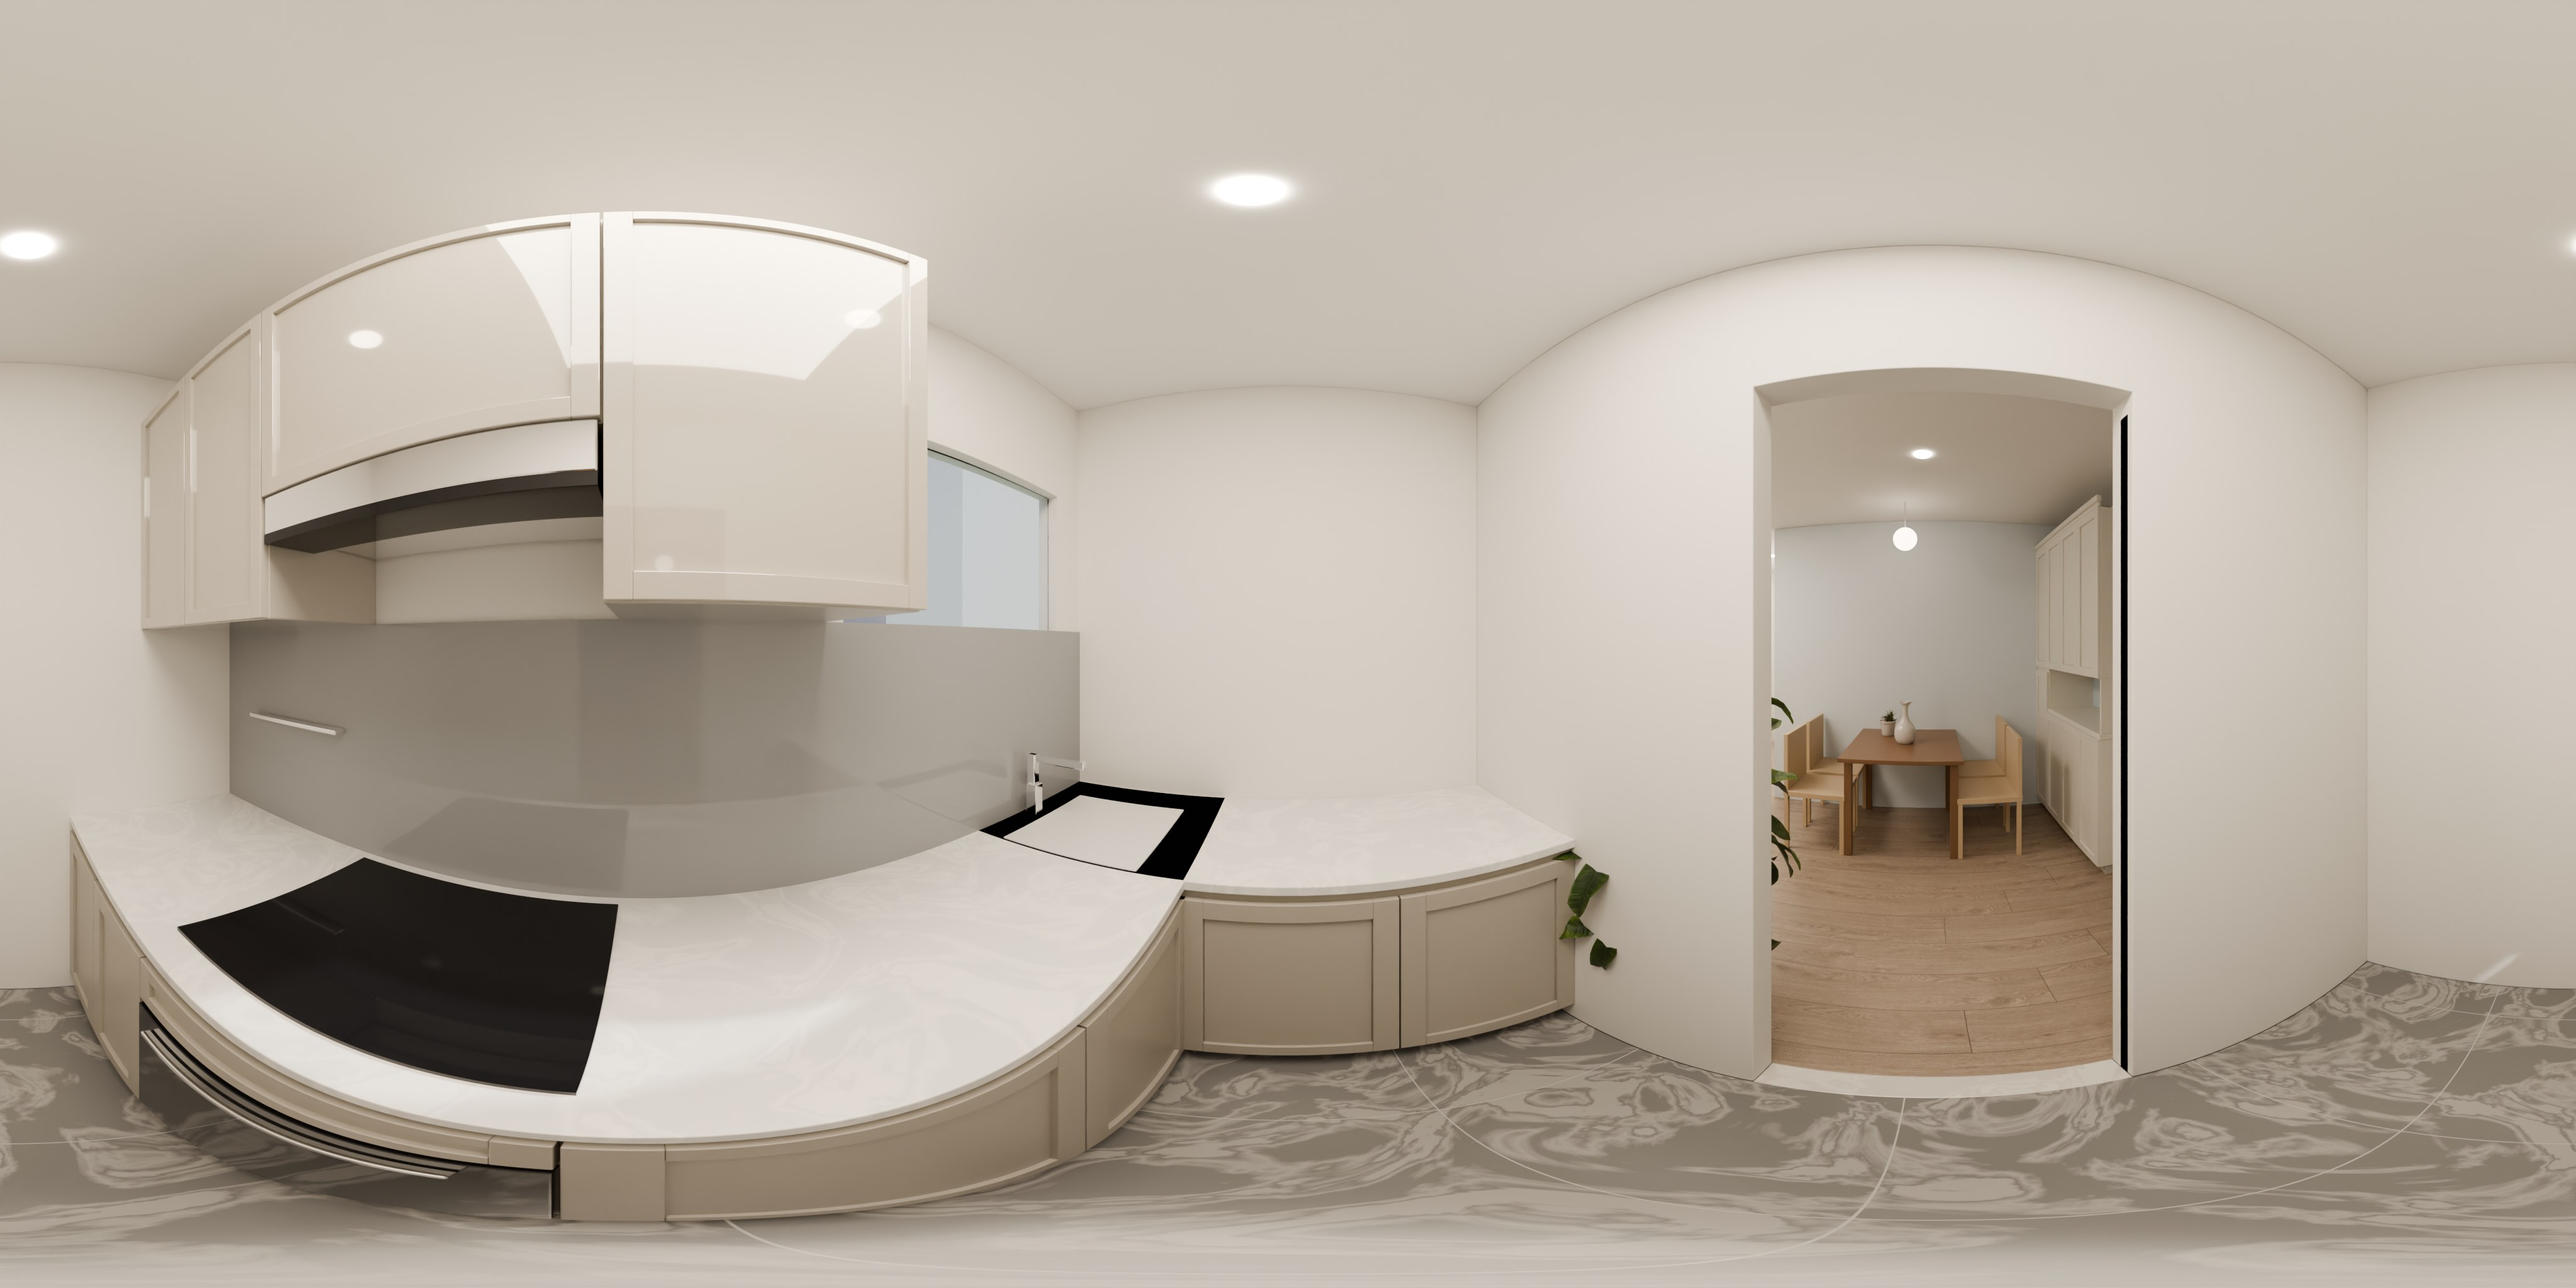
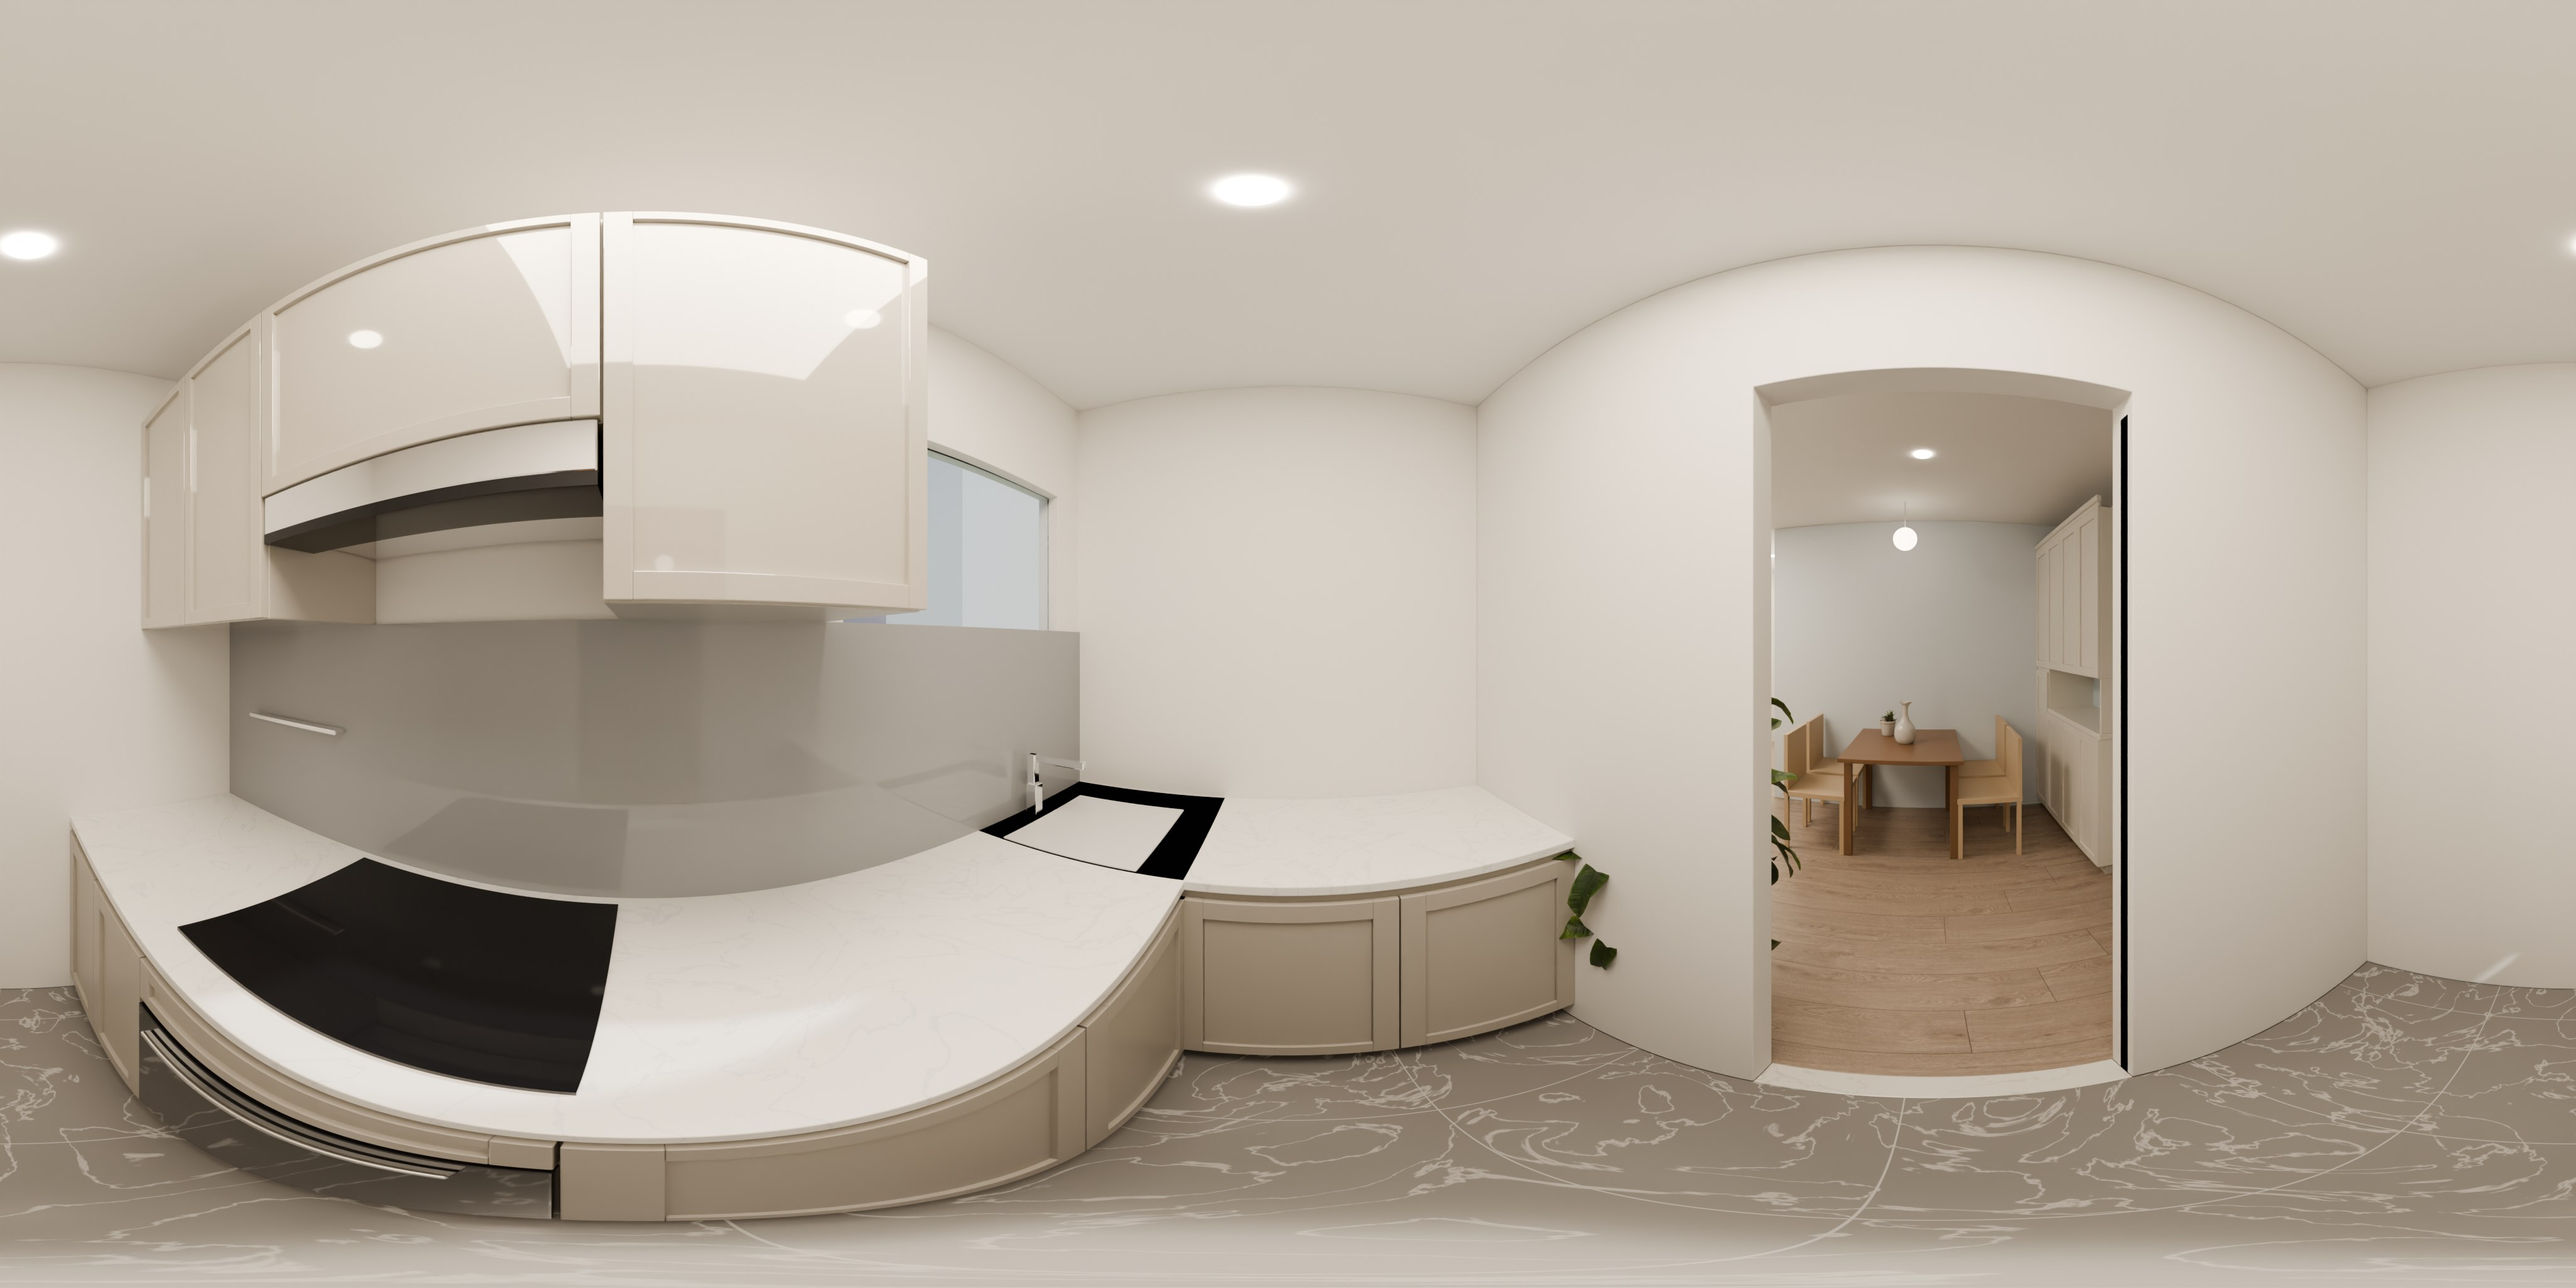
Flat tour: proper round move markers with labels, kept in view; newer panoramas
Claude-Session: https://claude.ai/code/session_016gZtD9ywHpxiipyexB3PtJ

diff --git a/flat/tour/index.html b/flat/tour/index.html
@@ -26,8 +26,17 @@
   button:focus-visible, a:focus-visible { outline: 2px solid var(--accent); outline-offset: 2px; }
   .foot { margin: 12px 0 0; color: var(--dim); font-size: 12px; display: flex; justify-content: space-between; gap: 8px; }
   .foot a { color: var(--accent); }
-  .pnlm-hotspot-base.pnlm-scene { width: 34px; height: 34px; }
-  .pnlm-tooltip span { font: 13px system-ui, sans-serif; }
+  /* move-to-room markers: a frosted disc with a chevron, label underneath */
+  .go { width: 44px; height: 44px; margin: -22px 0 0 -22px; border-radius: 50%; cursor: pointer;
+    background: rgba(255, 255, 255, 0.72); border: 2px solid rgba(255, 255, 255, 0.95);
+    box-shadow: 0 2px 10px rgba(0, 0, 0, 0.3); backdrop-filter: blur(4px); transition: transform 120ms, background 120ms; }
+  .go::before { content: ""; position: absolute; left: 50%; top: 52%; width: 12px; height: 12px;
+    border-left: 3px solid #b0643c; border-top: 3px solid #b0643c; transform: translate(-50%, -30%) rotate(45deg); }
+  .go:hover { transform: scale(1.12); background: rgba(255, 255, 255, 0.92); }
+  .go span { position: absolute; left: 50% !important; top: 50px !important; bottom: auto !important; margin: 0 !important;
+    width: auto !important; transform: translateX(-50%); white-space: nowrap;
+    background: rgba(30, 30, 30, 0.78); color: #fff; font: 600 12.5px system-ui, sans-serif; padding: 3px 9px; border-radius: 999px;
+    pointer-events: none; visibility: inherit !important; }
   @media (max-width: 600px) {
     .panel { top: auto; bottom: 12px; left: 12px; right: 12px; width: auto; padding: 10px 12px; }
     .sub, .foot span { display: none; }
@@ -49,6 +58,8 @@ fetch("tour.json").then((r) => r.json()).then((cfg) => {
   const start = ids.includes(location.hash.slice(1)) ? location.hash.slice(1) : cfg.default.firstScene;
   cfg.default.firstScene = start;
   cfg.default.showControls = false;   // the room panel sits where the zoom buttons would be; scroll and pinch still zoom
+  for (const sc of Object.values(cfg.scenes))
+    for (const hs of sc.hotSpots) hs.cssClass = "go";   // our own marker instead of Pannellum's sprite
   const viewer = pannellum.viewer("pano", cfg);
   const rooms = document.querySelector(".rooms");
   for (const id of ids) {
